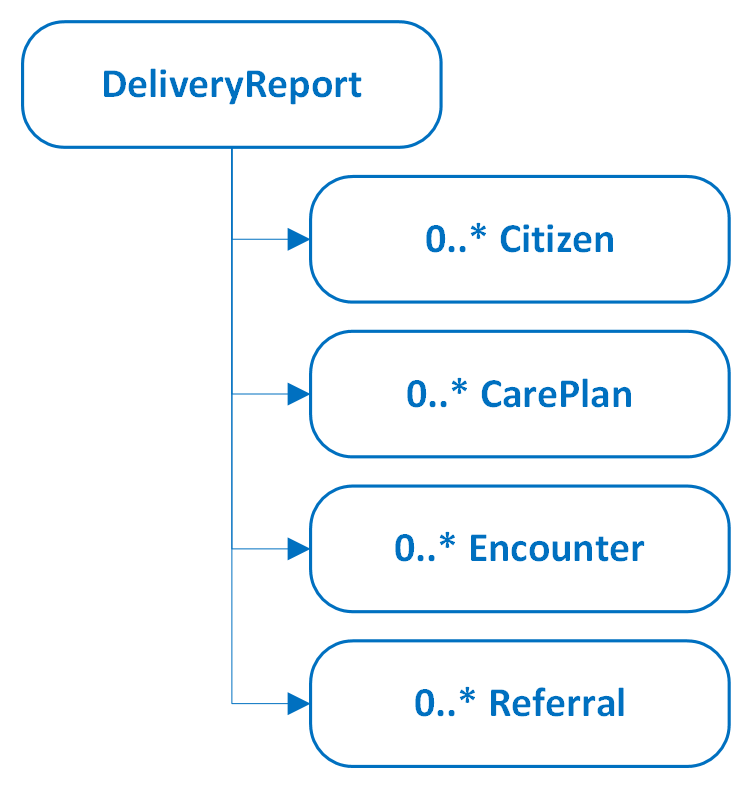
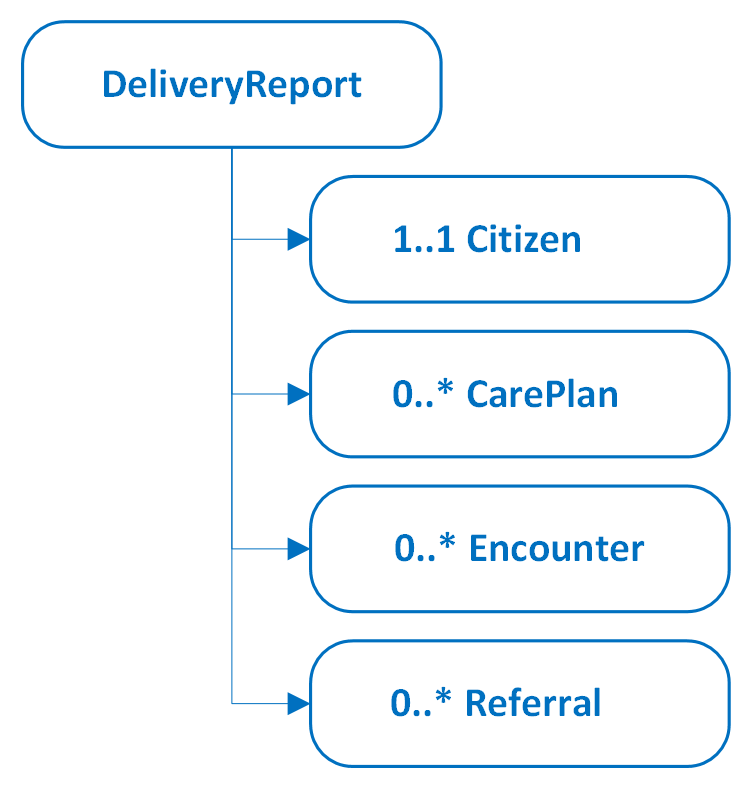
opdateringer i relation til issue: #1, #2, #4, #5, #6, #7, #8, #11, #13, #14, #15, #16 and #19

Changed region(s): [[0.5206, 0.2738, 0.8269, 0.3346], [0.5206, 0.8517, 0.8575, 0.9125], [0.5206, 0.4563, 0.8575, 0.5171]]

diff --git a/input/pagecontent/index.md b/input/pagecontent/index.md
@@ -13,9 +13,7 @@ In addition to being structured as a report, relationships exist between the pro
 
 <img alt="ClassDiagram" src="./ClassDiagram.png" style="float:none; display:block; margin-left:auto; margin-right:auto; width:60%; height:60%;" />
 
-The Class diagram shows that CarePlan, Encounter and Referral are all associated with Citizen i.e. these profiles know which Citizen they hold information about.
-
-CarePlan is associated with the Encounters the municipality have with the citizen and Referral is associated with overall CarePlan and may also refer to the Encounter during the Referral was created.      
+The Class diagram shows that CarePlan, Encounter and Referral are all associated with Citizen i.e. these profiles know which Citizen they hold information about. The Encounter and Referral are also associated with the CarePlan.
  
 The Citizen profile inherit from dk-core, even though it is not illustrated specifically in the Class Diagram.
 
@@ -39,22 +37,19 @@ Information about the citizens that are the subjects of the report. This resourc
 This model contains information about the treatment pathway from the child’s or youths first encounter with the municipality concerning LTT.
 
 ##### Attributes
-* An identifier of the care plan.
+<!-- * An identifier of the care plan.-->
 * A start time.
 * An end time.
 * A code that decribes which care plan it is.
 * A reference to the Citizen instance that holds the child or youth's information.
-* An author, that is the responsible organization of the care plan.
 * A reasonCode that describe the focus area which is the reason for the care plan and encounters.
 * Three FHIR status attributes (status, intent, activity.detail.status).
 
 ##### Validation
-* One and only one identifier of the care plan.
+<!-- * One and only one identifier of the care plan.-->
 * One and only one code exists and should be selected from a specific ValueSet.
 * One and only one start time.
 * One and only one reference to the Citizen exists.
-* One and only one author exists, and is a syntactically valid SOR code (only code length is currently validated in the profile, but the authorization validates the actual SOR code).
-* The outcomeReference is optional. Of present, it should reference one or more Encounters.
 * The reasonCode is optional. If present, it should be selected from a specific ValueSet. It is allowed to have more than one reasonCode.
 * The FHIR status attributes are mandatory, and should be selected from the standard FHIR ValueSet.
 
@@ -69,13 +64,15 @@ Information about when a child or youth have an encounter such as screenings, pr
 * A FHIR status attribute.
 * The participant of the encounter. It can be the child or youth itself or its parents.
 * A delivery type code that express whether the encounter is delivered in a group or individually.
+* A reference to the CarePlan instance the Encounter is a part of.
 
 ##### Validation
 * One and only one encounter type exists, and should be selected from a specific ValueSet, no other codes may be reported.
-* One and only one encounter class exists, and should always be AMB.
+* One and only one encounter class exists, and should be selected from a specific ValueSet.
 * One and only one encounter start time exists.
 * One and only one reference to the Citizen exists.
-* One and only one FHIR status exists, and should be selected from the standard FHIR-ValueSet.
+* One and only one reference to the CarePlan exists.
+* One and only one FHIR status exists, and should be selected from the standard FHIR ValueSet.
 * One delivery type code, which should be selected from a specific ValueSet, may exist.
 * One participant code, which should be selected from a specific ValueSet, may exist.
 
@@ -83,12 +80,10 @@ Information about when a child or youth have an encounter such as screenings, pr
 Referrals in this context are informal recommendations to other parties, such as the child’s or youth’s general practitioner, a §126a service in another municipality, and similar instances.
 
 ##### Attributes
-* A code indicating where the citizen is being referred.
+* A code indicating which service the citizen is being referred to.
 * A start time.
 * A reference to the Citizen instance that holds the child or youth's information.
 * A reference to the CarePlan instance that this referral is a part of.
-* It may hold a reference to the Encounter at which the referral was created.
-* An contributor, which is the municipality who provided the contents of the referral.
 * Three FHIR status attributes (status, intent, activity.detail.status).
 
 ##### Validation
@@ -96,10 +91,6 @@ Referrals in this context are informal recommendations to other parties, such as
 * One and only one start time.
 * One and only one reference to the Citizen exists.
 * One and only one reference to the CarePlan exists.
-* One and only one contributor exists, and is a syntactically valid SOR code (only code length is currently validated in the profile, but the authorization validates the actual SOR code).
-* The reference to an Encounter is optional. <!--TODO skal den være 0..0, 0..1 eller 1..1? -->
-<!--* The reasonCode is optional. If present, it should be selected from a specific ValueSet. It is allowed to have more than one reasonCode.-->
-<!--TODO skal reasonCode anvendes? -->
 * The FHIR status attributes are mandatory, and should be selected from the standard FHIR ValueSet. activity.detail.status must be set to 'completed'.
 
 ## Dependencies

diff --git a/input/pagecontent/StructureDefinition-klgateway-ltt-encounter-intro.md b/input/pagecontent/StructureDefinition-klgateway-ltt-encounter-intro.md
@@ -11,15 +11,29 @@ The Encounter.type attribute is used to classify the type of activities that occ
 
 Only encounters actually carried out should be documented. Consequently, the encounter.status should be 'finished'. However, if errors have been reported use the 'entered-in-error' status as described by the FHIR documentation.
 
-Encounter.class is mandatory in FHIR. In this model only the code 'AMB' Ambulatory is allowed.
-In the Danish municipalities the value is used as: Sessions where the citizens visit municipality facilities e.g. for training or health prevention.
+Encounter.class is mandatory in FHIR. In Danish municipalities the values are used as follows.
+* 'HH' home health: Visits in citizens homes. The code is also used for services that are not strictly health related e.g. help with cleaning. This code is also used, even if the activities stretch outside the citizens residence e.g. a physiotherapist that want to see a citizen walk outside, or a social worker helping with shopping activities.
+* 'AMB' Ambulatory: Sessions where the citizens visit municipality facilities e.g. for training or health prevention.
+* 'Skærmbesøg': Encounters delivered as a screen visit.
+* 'Telefonisk': Encounters delivered using a phone.
 
 The time of the encounter is documented in Encounter.period.start, and it is mandatory.
 
-Encounter.subject relates to the subject that the encounter is about. In LTT this is always the child or youth.
-Sometimes it is actually the parents, legal guardians, etc. of the child or youth that are receiving the training or guiding. To document this, Encounter.participant can be used to tell whether it is the child/youth, who is present (maybe in companionship with the parents) or if it is just the parents, who participate in the encounter.
+Encounter.extension[basedOnCarePlan] must be populated with a reference to the care plan.
 
+Encounter.subject relates to the subject that the encounter is about. In LTT this is always the child or youth.
+Eventhough it can be the parents, legal guardians, etc. of the child or youth that are receiving the training or guiding. To document this, Encounter.participant can be used to tell whether it is the child/youth, who is present (maybe in companionship with the parents) or if it is just the parents, who participate in the encounter.
 Encounter.extension[deliveryType] is used to state, how encounters are delivered. Valid values are 'individual' and 'group based'.
+There's a difference in how the information is registered in the user interface and how it is reported to KL Gateway. The table below shows how the registrations from the user interface is represented in FHIR:
+
+{:class="grid"}
+|   User interface terms      | FHIR representation        |
+| ------------- |-------------| 
+|8742dc92-2878-4074-b128-b0384c4989c9 <br>"Gruppebaseret behandling med barn/ung" |Encounter.extension[deliveryType] = 2865f123-15a7-4a36-a514-32ea37c400ca "Gruppebaseret indsats" <br>Encounter.participant.type.coding = ca228a58-bd0e-4b0e-81ce-3866adc26535 "Barn/ung deltager"|
+|dadb1540-9542-46d1-a784-0559d94e0b9a <br>"Gruppebaseret behandling uden barn/ung" |Encounter.extension[deliveryType] = 2865f123-15a7-4a36-a514-32ea37c400ca "Gruppebaseret indsats" <br>Encounter.participant.type.coding = d3578249-10df-4051-851d-3986b1570bee "Omsorgsperson uden barn/ung"|
+|ca52f015-193e-4d31-9471-7385717dfa44 <br>"Individuel behandling med barn/ung" |Encounter.extension[deliveryType] = 8d12d74c-17da-47a7-a4fe-e69dbaec0a8c "Individuel indsats" <br>Encounter.participant.type.coding = ca228a58-bd0e-4b0e-81ce-3866adc26535 "Barn/ung deltager"|
+|c86b5c04-7e13-488b-87fd-fb1e30309bb8 <br>"Individuel behandling uden barn/ung" |Encounter.extension[deliveryType] = 8d12d74c-17da-47a7-a4fe-e69dbaec0a8c "Individuel indsats" <br>Encounter.participant.type.coding = d3578249-10df-4051-851d-3986b1570bee "Omsorgsperson uden barn/ung"|
+
 
 ### Conversions between Danish information model and FHIR profile
 
@@ -35,4 +49,5 @@ Nedenstående tabel definerer kort den enkelte attribut på dansk og specificere
 |kontaktdeltagere|Deltagere under kontakten|Encounter.participant|
 |kontaktstart|Kontaktens start|Encounter.period.start|
 |kontaktLeveringstype|Type, der beskriver hvordan kontaktes leveres|Encounter.extension:deliveryType|
+|kontaktBaseretPå|Den care plan, der er grunden til at denne kontakt udføres|Encounter.extension:basedOnCarePlan|
 

diff --git a/input/pagecontent/StructureDefinition-klgateway-ltt-care-plan-intro.md b/input/pagecontent/StructureDefinition-klgateway-ltt-care-plan-intro.md
@@ -5,27 +5,27 @@ CarePlan.status and CarePlan.intent are mandatory in the FHIR CarePlan resource.
 
 CarePlan.activity.detail.status is also mandatory, and it is recommended to use the status codes 'in-progress', 'completed' and 'entered-in-error'. The status should align with the CarePlan.status.
 
-CarePlan.subject references the citizen, which is always the child or youth. CarePlan.author is the organization that is responsible for the care plan.
+CarePlan.subject references the citizen, which is always the child or youth.
 
-CarePlan.period.start is when the service for that specific citizen was first started (forløbstart). 
+CarePlan.period.start is the tima at which the service for that specific citizen was first started (forløbstart). 
 
-CarePlan.activity.outcomeReference references the Encounters that are a result of the LTT activity, and the CarePlan.activity.detail.reasonCode describes the child or youth's issue and therefor the focus area of treatment.
+CarePlan.activity.detail.reasonCode describes the child or youth's issue and the focus area of treatment.
 
 ### Conversions between Danish information model and FHIR profile
 
 Nedenstående tabel definerer kort den enkelte attribut på dansk og specificerer hvilke af FHIR-profilens atributter, der skal bruges til specifikation af indholdet.
 
+<!--|forløbsid|Unikt id for det enkelte forløb|CarePlan.identifier| -->
+
 {:class="grid"}
 |   Dansk attribut      | Definition        | FHIR  |
 | ------------- |-------------| -----|
-|forløbsid|Unikt id for det enkelte forløb|CarePlan.identifier|
 |forløbsstatus|Indikerer om forløbet er igangsat, er færdiggjort eller oprettet ved en fejl|CarePlan.status|
 |forløbshensigt|Indikerer niveauet af autorisation og hvor langt i processen forløbet er|CarePlan.intent|
 |forløbstart|Tid, hvor forløbet er startet fx på baggrund af en henvendelse|CarePlan.period.start|
 |forløbslut|Tid, hvor forløbet er afsluttet. Forløb afsluttes når de vurderes fuldført eller hvis der konstateres frafald som ikke vurderes realistisk at genoptage|CarePlan.period.end|
 |forløbssubjekt|Den borger (barn eller ung) som forløbet retter sig mod|CarePlan.subject|
-|forløbsansvarlig|Organisation, der har ansvaret for forløbet|CarePlan.author|
-|forløbGennemførtAktivitet|De kontakter som efterhånden indgår i forløbet|CarePlan.activity.outcomeReference|
 |forløbskode|Kode, der udtrykker hvilken klasse forløbet tilhører.|CarePlan.activity.detail.code|
 |forløbstema|Tema omhandler de udfordringer barnet/den unge kommer med. Temaer kan blive afdækket i forsamtale, i screening eller i behandlingsforløb. Det er muligt at angive flere temaer og løbende opdatere temaer registreret tidligere i forløb|CarePlan.activity.detail.reasonCode|
 |forløbsAktivitetsstatus|Indikerer om forløbet er igangsat, er færdiggjort eller oprettet ved en fejl|CarePlan.activity.detail.status|
+

diff --git a/input/pagecontent/StructureDefinition-klgateway-ltt-referral-intro.md b/input/pagecontent/StructureDefinition-klgateway-ltt-referral-intro.md
@@ -1,17 +1,15 @@
 ## Scope and usage
-This model is used whenever a referral is created for a child or youth during the as part of the LTT.
+This model is used whenever a referral is created for a child or youth as part of the LTT. Notice that a referral does not necessarily mean that the LTT for the citizen is completed.
 
 CarePlan.activity.detail.code holds the referral code, which has to come from the specified list of referrals.
 
-CarePlan.period.start is when the referral has been established.
+Careplan.period.start is when the referral is issued.
 
-Notice that a referral does not necessarily mean that the LTT for the citizen is completed.
-
-CarePlan.status and CarePlan.intent are mandatory. CarePlan.intent is always 'plan' in this implementation guide. CarePlan status should be either 'completed' or 'entered-in-error'.
+CarePlan.status and CarePlan.intent are mandatory. CarePlan.intent is always 'plan' in this implementation guide. CarePlan.status should be either 'completed' or 'entered-in-error'.
 
 CarePlan.activity.detail.status is also mandatory, and the status 'completed' is expected to be used. It is recommended not to use 'entered-in-error' - if the CarePlan is entered-in-error use CarePlan.status.
 
-CarePlan.subject indicates the citizen receiving the referral.
+CarePlan.subject references the citizen.
 
 ### Conversions between Danish information model and FHIR profile
 
@@ -23,12 +21,10 @@ Nedenstående tabel definerer kort den enkelte attribut på dansk og specificere
 |henvisningsstatus|Indikerer om henvisningen er klar til at blive handlet på, om dokumentationen repræsentere en fremtidig intention eller er historisk.|CarePlan.status|
 |henvisningshensigt|Indikerer niveauet af autorisation og hvor langt i planlægningen henvisningen er|CarePlan.intent|
 |henvisningsAktivitetsstatus|Indikerer om henvisningen er igangsat, eller om den ikke er startet, er aflyst, eller er færdiggjort.|CarePlan.activity.detail.status|
-|forløbsreference|Reference til det forløb borgeren deltager i, da henvisningen foretages|CarePlan.partOf|
-|henvisningssubjekt|Den broger, som henvisningen retter sig mod|CarePlan.subject|
-|henvisningskontakt|Den kontakt, som henvisningen udspringer fra|CarePlan.encounter|
+|forløbsreference|Reference til det forløb borgeren deltager i, da henvisningen foretages|CarePlan.basedOn|
+|henvisningssubjekt|Den borger, som henvisningen retter sig mod|CarePlan.subject|
 |henvisningstidspunkt|Det tidspunkt henvisningen foretages|CarePlan.period.start|
-|henvisningsbidragsyder|Organisation, der har leveret indholdet til henvisningen|CarePlan.contributor|
-|henvisningskode|Kode, der udtrykker hvor til borgeren er henvist|CarePlan.activity.detail.code|
+|henvisningskode|Kode, der udtrykker hvortil borgeren er henvist|CarePlan.activity.detail.code|
 
 
 
